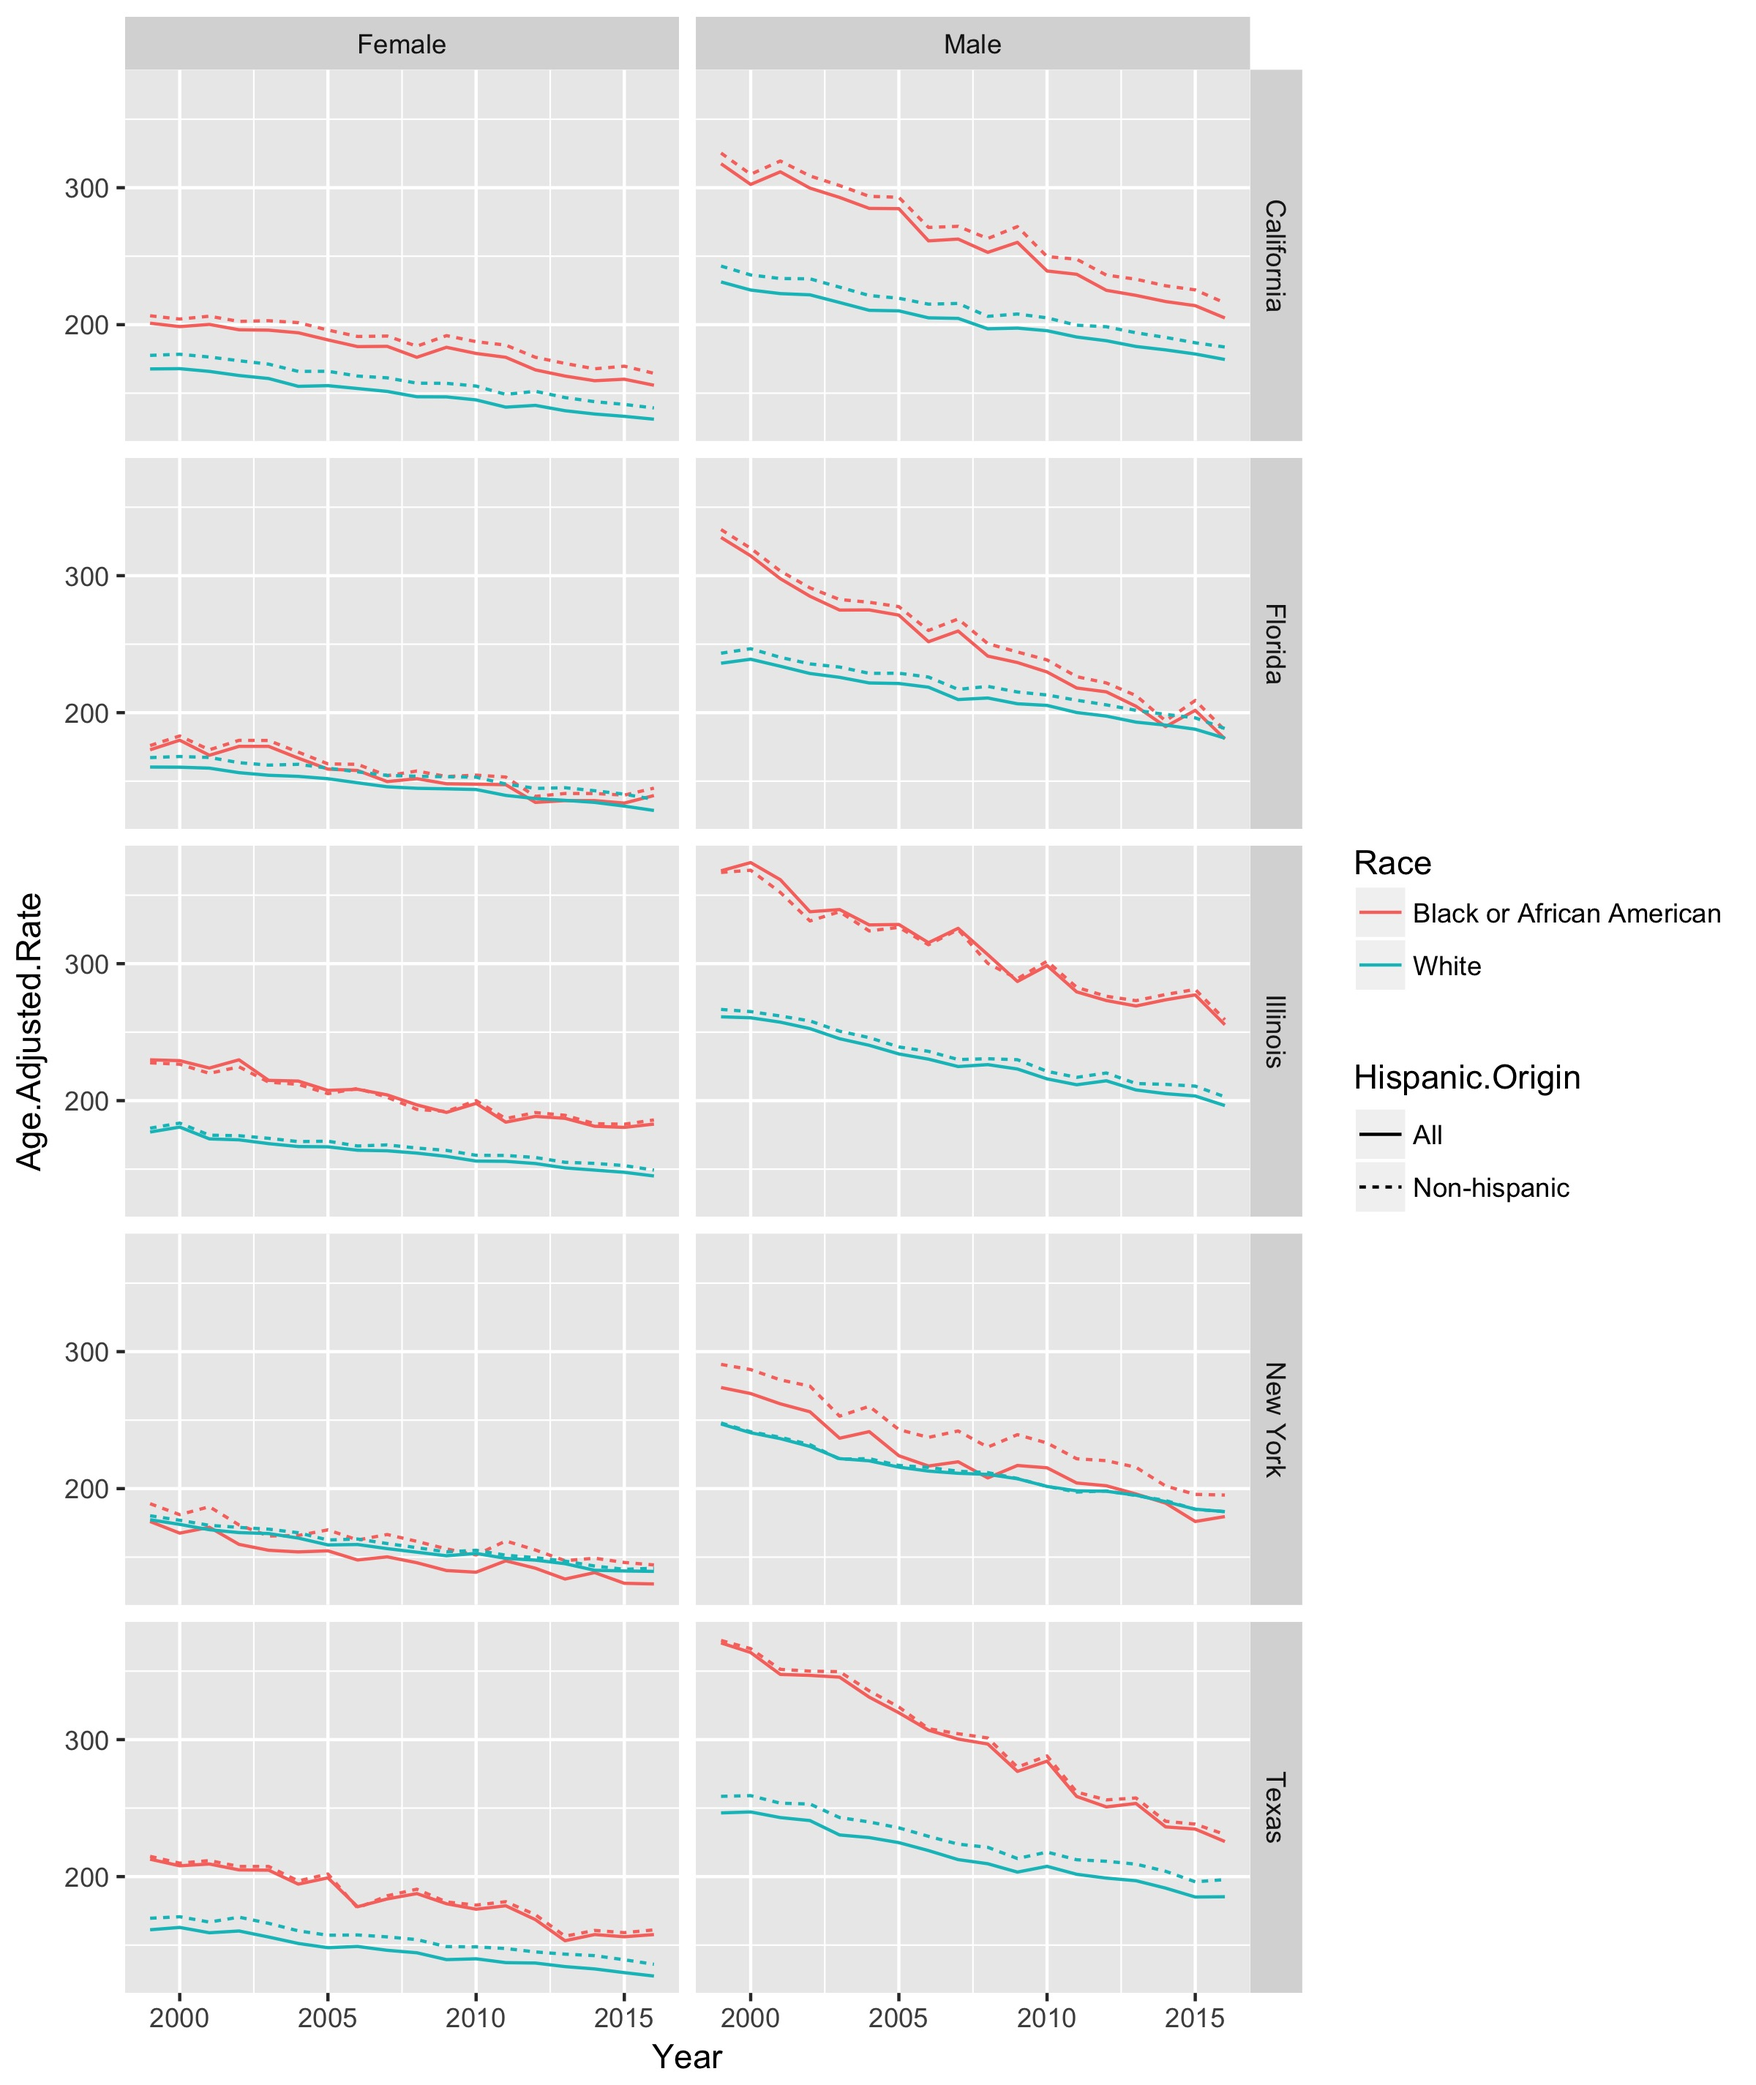
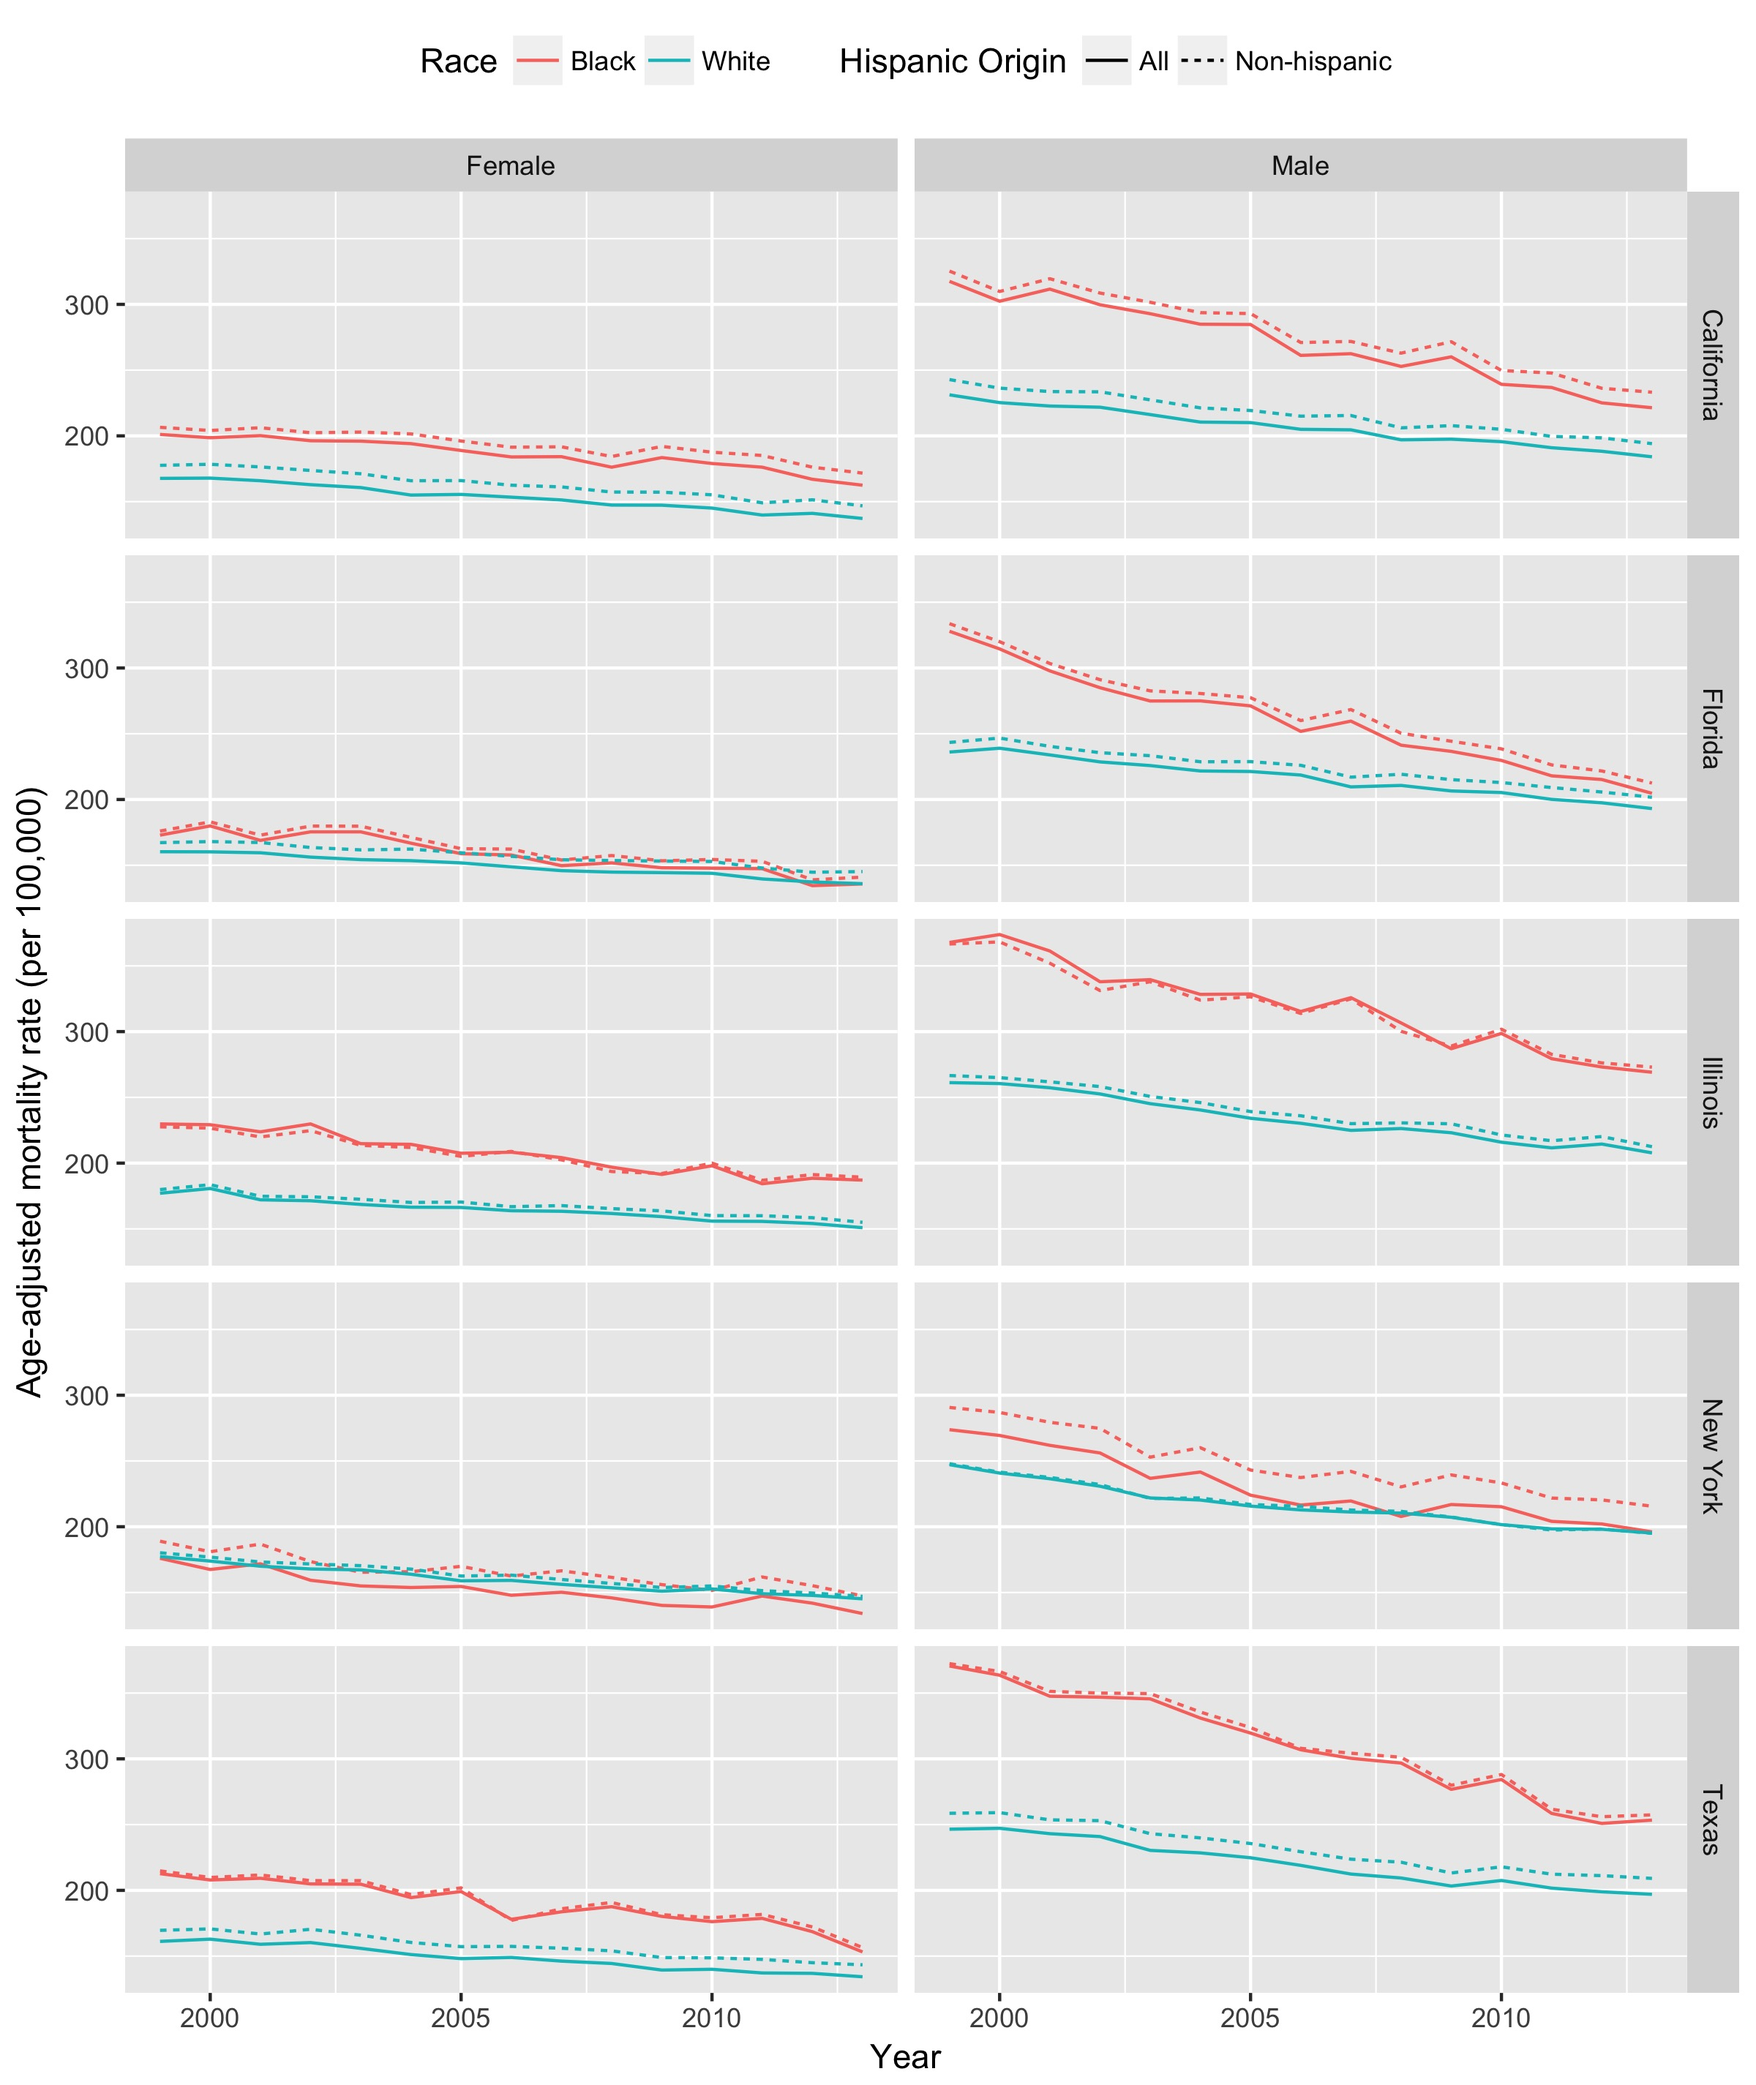
md file

diff --git a/Manuscript/Appendix_Explore-Hispanic-origin.md b/Manuscript/Appendix_Explore-Hispanic-origin.md
@@ -1,0 +1,33 @@
+Supplementary Appendix 3: Trends in black and white mortality rates before and after excluding Hispanics, 1999-2013
+================
+
+This is the third supplementary appendix for the paper, "Trends in the contribution of major causes of death to the black-white life expectancy gap by US state. A retrospective study of all deaths between 1969 and 2013."
+
+Corinne A Riddell, PhD; Kathryn T Morrison, PhD; Jay S Kaufman, PhD; Sam Harper, PhD
+
+Address correspondence to: Corinne Riddell, PhD, Department of Epidemiology, Biostatistics & Occupational Health, McGill University, 1020 Pine Avenue West, Room 36B, Montreal, QC H3A 1A2, Canada. Email: <corinne.riddell@mail.mcgill.ca>
+
+In our main analyses, we included Hispanics as part of the black and white racial groups. To investigate the impact of including Hispanics on mortality, we inspected mortality trends for five key states with large Hispanic immigrant populations (California, New York, Florida, Texas, and Illinois). We extracted this mortality data using (CDC WONDER's)\[<https://wonder.cdc.gov/>\] compressed mortality file. Hispanic ethnicity is only available beginning in 1999, so we consider the time period from 1999 to 2013. We extract age-adjusted mortality rates related to the circulatory system ("CVD", ICD-10 codes I00-I99), neoplasms ("cancers", ICD-10 codes C00-D48) and external causes ("injuries", ICD-10 codes V01-Y89) by year, state, race, and gender, for (a) non-Hispanics and (b) regardless of Hispanic ethinicity.
+
+**Trends in cancer mortality for all whites and blacks vs. non-Hispanic whites and blacks, 1999-2013**
+
+    ## ── Attaching packages ────────────────────────────────── tidyverse 1.2.1 ──
+
+    ## ✔ ggplot2 2.2.1.9000     ✔ purrr   0.2.4     
+    ## ✔ tibble  1.4.2          ✔ dplyr   0.7.4     
+    ## ✔ tidyr   0.8.0          ✔ stringr 1.2.0     
+    ## ✔ readr   1.1.1          ✔ forcats 0.2.0
+
+    ## Warning: package 'tibble' was built under R version 3.4.3
+
+    ## Warning: package 'tidyr' was built under R version 3.4.3
+
+    ## ── Conflicts ───────────────────────────────────── tidyverse_conflicts() ──
+    ## ✖ dplyr::filter() masks stats::filter()
+    ## ✖ dplyr::lag()    masks stats::lag()
+
+![](Appendix_Explore-Hispanic-origin_files/figure-markdown_github/load-cancer-data-1.png)
+
+**Trends in CVD mortality for all whites and blacks vs. non-Hispanic whites and blacks, 1999-2013** ![](Appendix_Explore-Hispanic-origin_files/figure-markdown_github/load-circulatory-data-1.png)
+
+**Trends in injury mortality for all whites and blacks vs. non-Hispanic whites and blacks, 1999-2013** ![](Appendix_Explore-Hispanic-origin_files/figure-markdown_github/load-injuries-data-1.png)
